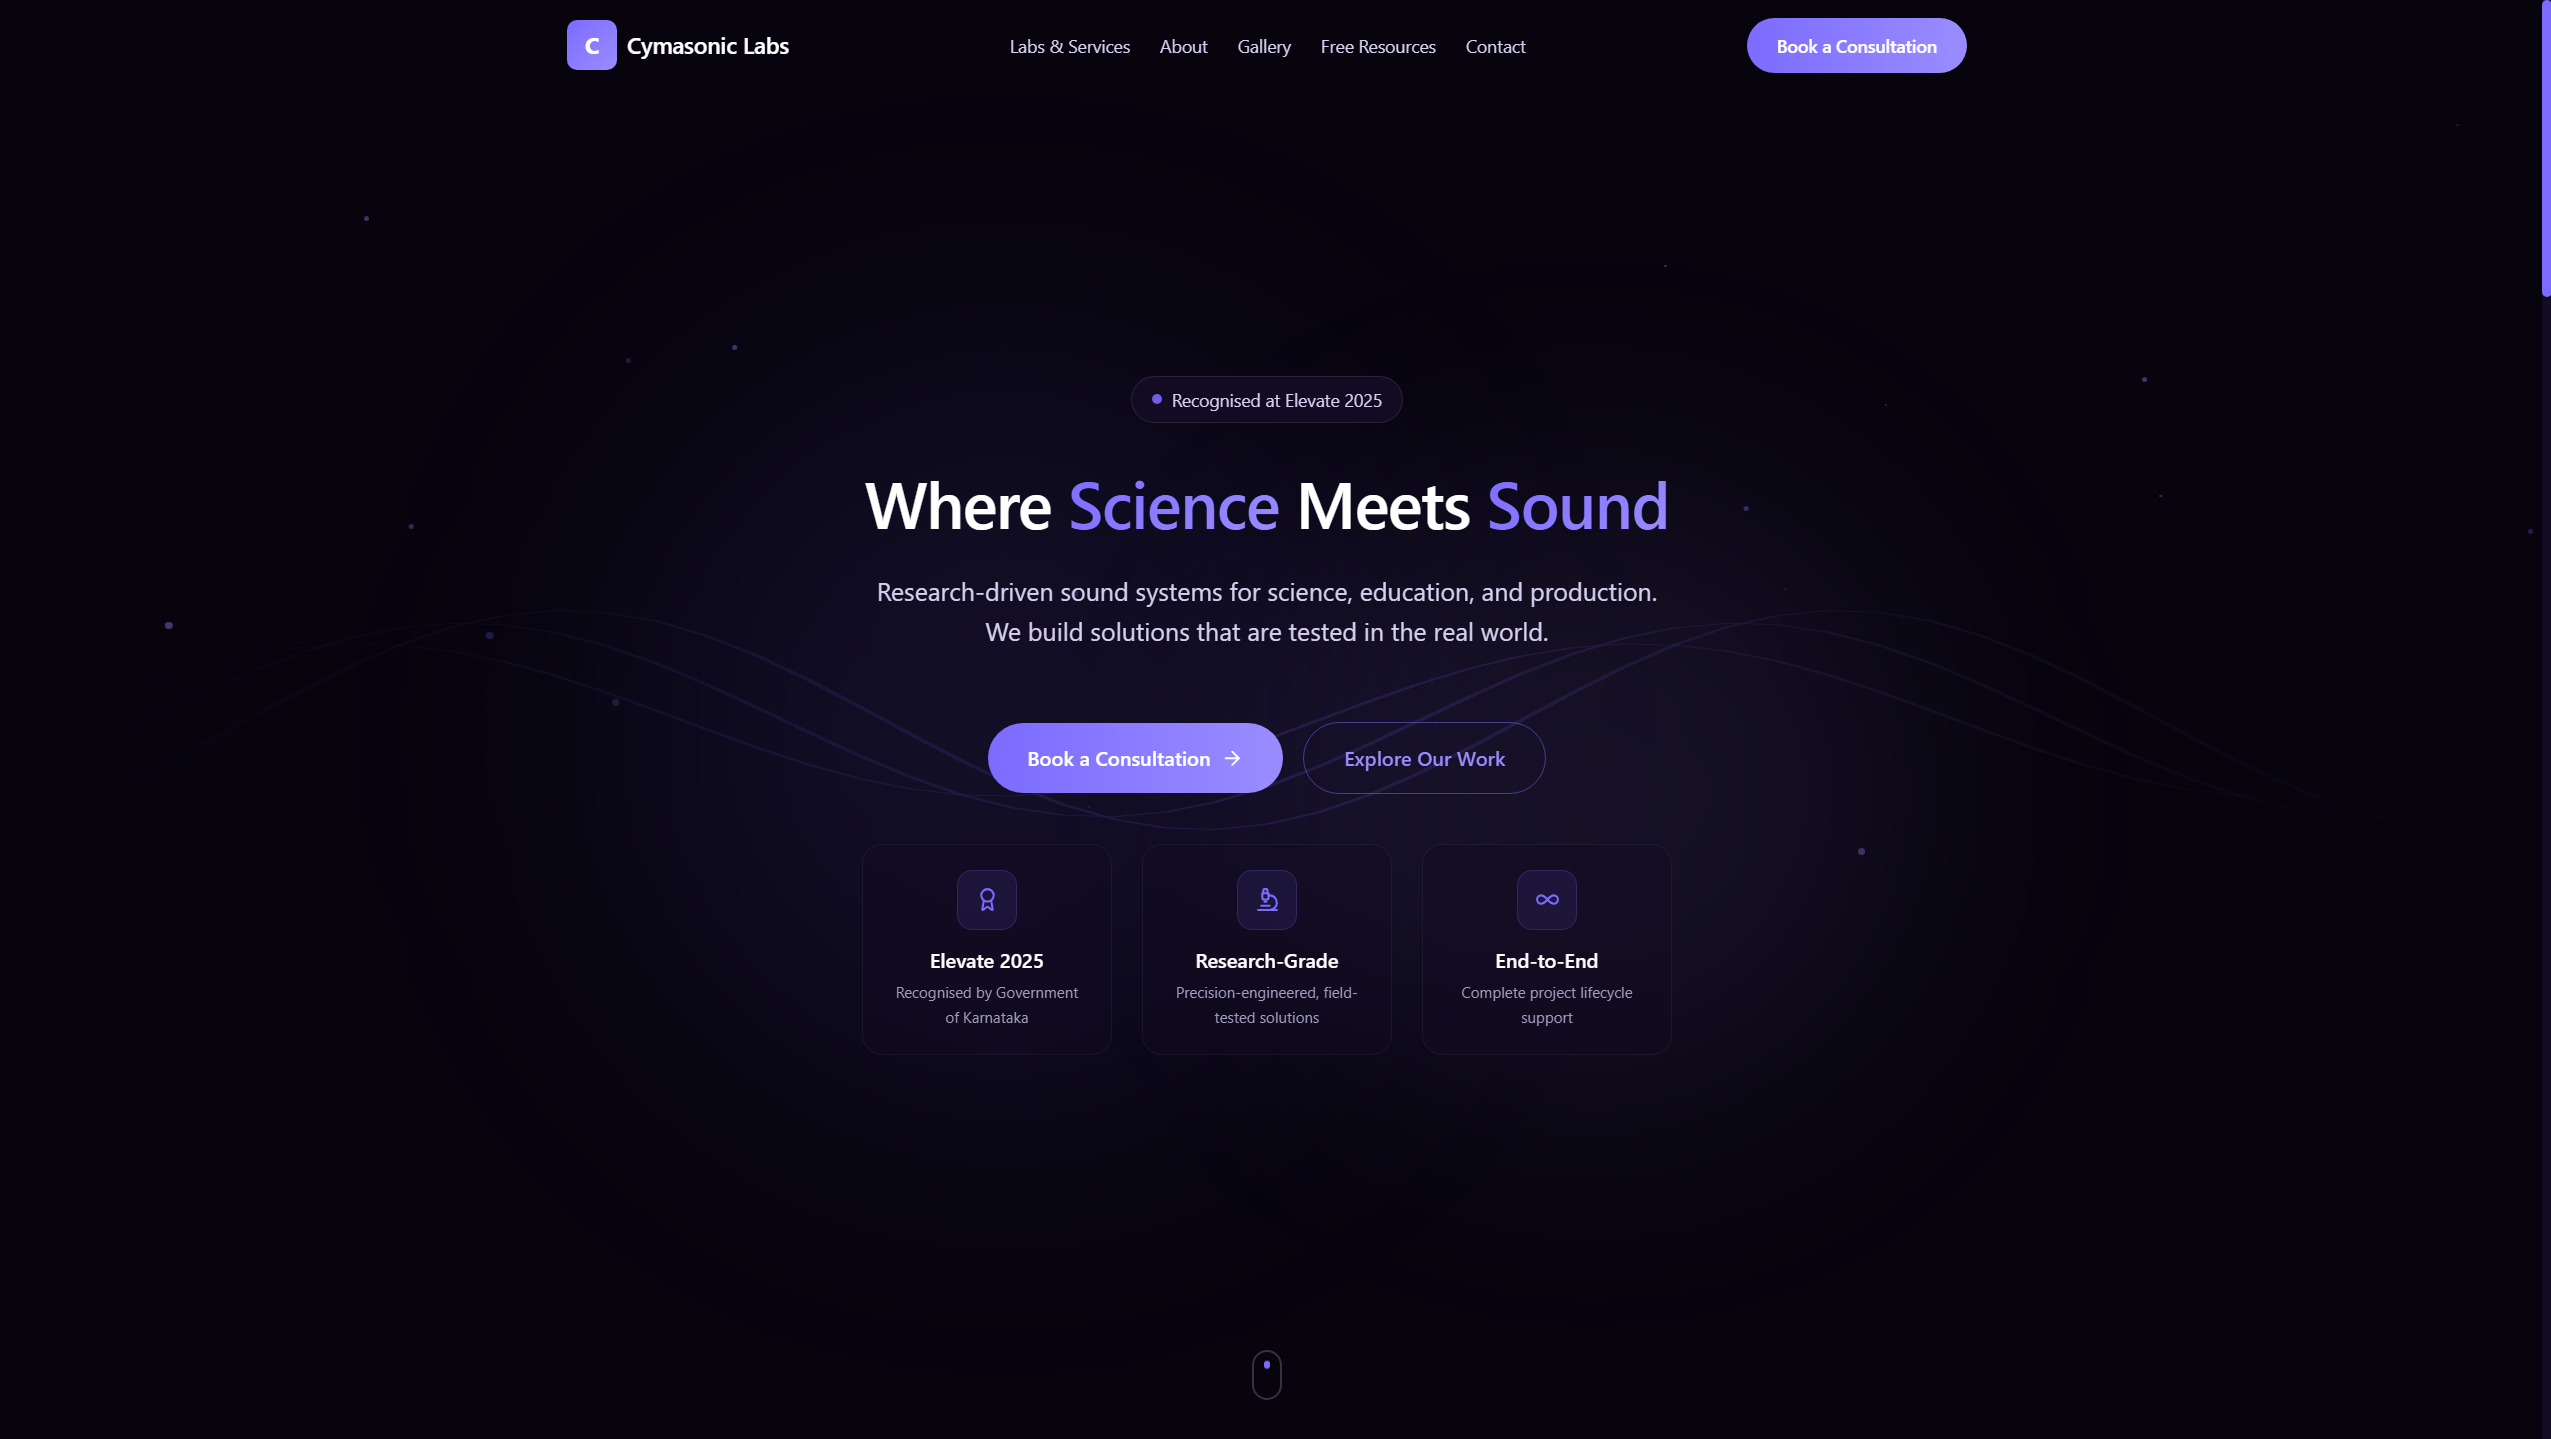
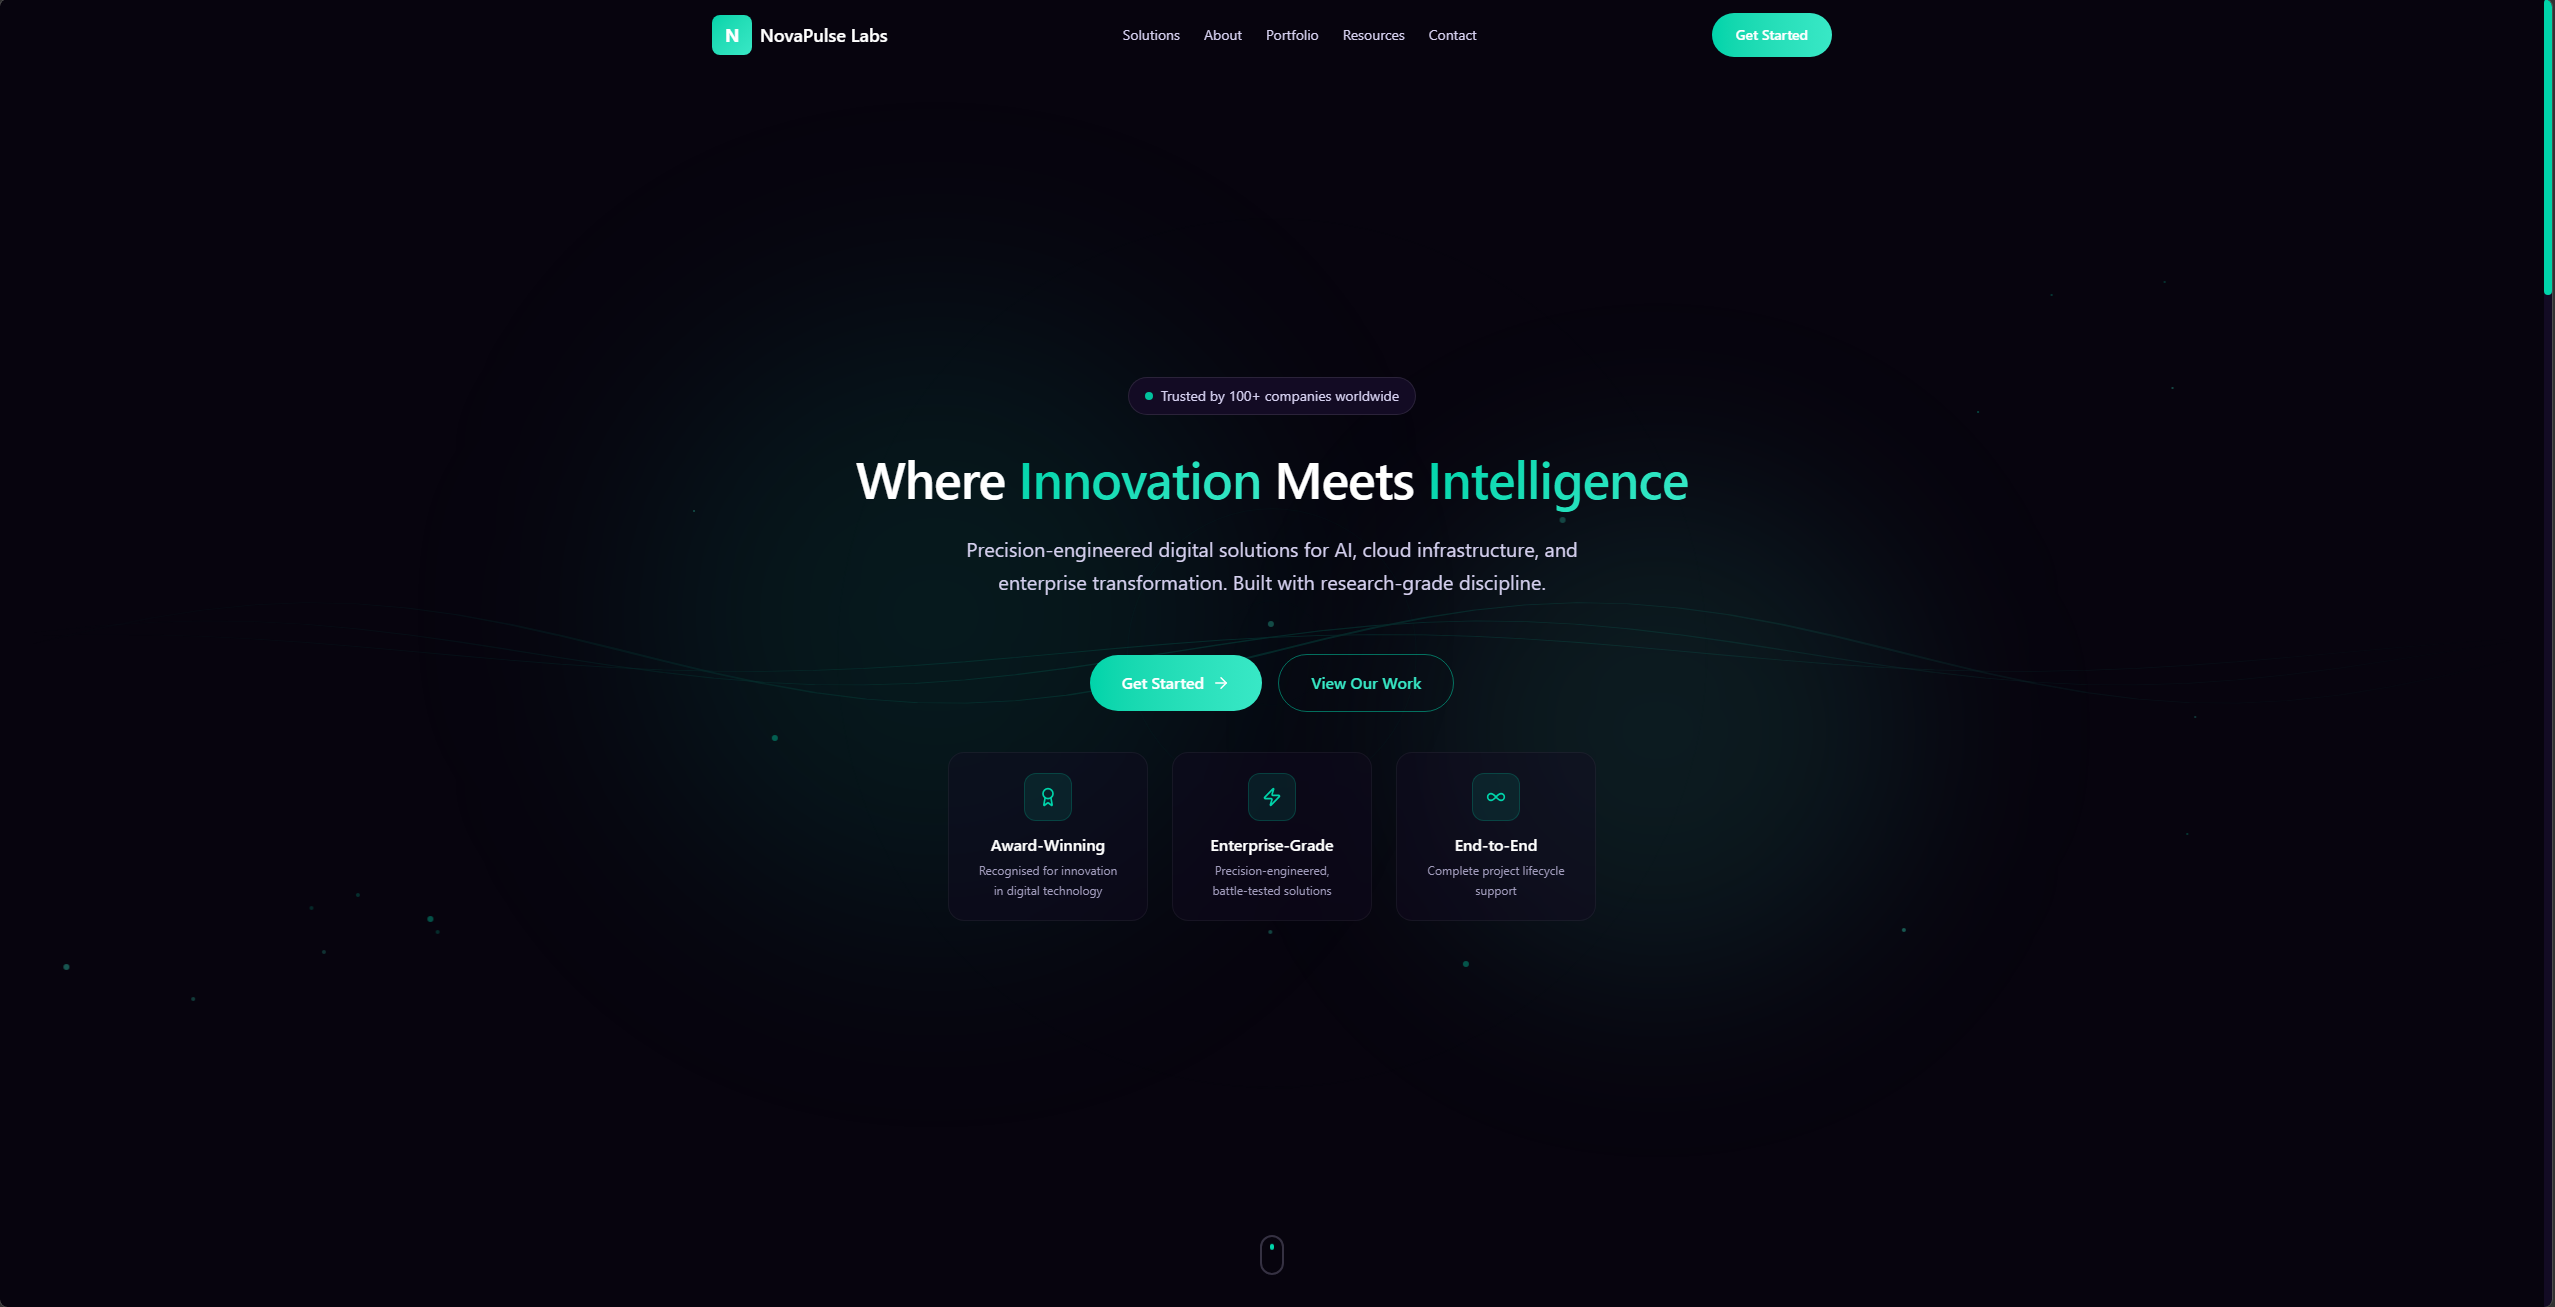
rebrand: rename Cymasonic Labs to NovaPulse Labs and update URL

diff --git a/src/components/work/HeroSection.jsx b/src/components/work/HeroSection.jsx
@@ -25,14 +25,14 @@ export const projects = [
 	},
 	{
 		id: 2,
-		title: "Cymasonic Labs",
+		title: "NovaPulse Labs",
 		category: "websites",
 		description:
-			"The demo focuses on improving UI/UX clarity, accessibility, and visual hierarchy, while preserving Cymasonic Labs’ research-first and non-promotional tone.",
+			"The demo focuses on improving UI/UX clarity, accessibility, and visual hierarchy, while preserving NovaPulse Labs’ research-first and non-promotional tone.",
 		image: "/Project Screenshots/cymasonic.png",
 		tags: ["UI/UX", "Development", "AI", "Demo"],
 		layout: "half",
-		link: "https://cymasonic-labs-demo.vercel.app/",
+		link: "https://novapulselabs.vercel.app/",
 	},
 	{
 		id: 3,

diff --git a/src/data/projectsData.js b/src/data/projectsData.js
@@ -23,12 +23,12 @@ export const projectsData = [
         isExternal: true,
     },
     {
-        id: 'cymasonic-landing-page',
-        title: 'Cymasonic',
+        id: 'novapulse-landing-page',
+        title: 'NovaPulse Labs',
         description: 'Landing Page',
         label: 'DEMO - Web Design & Development',
         image: '/Project Screenshots/cymasonic.png',
-        url: 'https://cymasonic-labs-demo.vercel.app/',
+        url: 'https://novapulselabs.vercel.app/',
         color: '#060010',
         isExternal: true,
     },